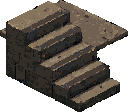
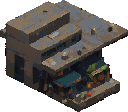
feat: 환경 시트를 클린 클러스터 v4로 재채택한다 (§1-d 정합 판정 게이트 통과)
재조정 레시피 4후보를 신설 게이트 — 후보 바닥 3×3 위 라이더 스프라이트 합성 —
로 판정해 C03을 채택했다: 플랫 면 + 이음새·해치 재질감(JOGAQ 문법)이 라이더의
셀 클러스터와 한 몸으로 읽힌다. v3(잔점 노이즈 사실계)는 §1-d 도입으로 당일 개정.
배경 알파 전처리(tol 5) 후 프로세서(despeckle 포함) 재마감, Art/Environment 16종
교체. 실플레이 캡처 docs/captures/neon-environment-clean-cluster-v1.png.
EditMode 1197 · PlayMode 2 그린.

diff --git a/Tools/ArtPipeline/process_postapoc_environment_v2.py b/Tools/ArtPipeline/process_postapoc_environment_v2.py
@@ -19,7 +19,7 @@ from torchstone_palette import despeckle, lock_to_palette
 ROOT = Path(__file__).resolve().parents[2]
 SOURCE = (
     ROOT
-    / "docs/art-direction/project-c-collapsed-transit-environment-source-v3.png"
+    / "docs/art-direction/project-c-collapsed-transit-environment-source-v4.png"
 )
 STAIRS_SOURCE = (
     ROOT

diff --git a/docs/art-direction/project-c-collapsed-transit-environment-source-v4.prompt.md b/docs/art-direction/project-c-collapsed-transit-environment-source-v4.prompt.md
@@ -1,0 +1,10 @@
+# 환경 6셀 소스 시트 v4 — 클린 클러스터 재조정 (§1-d)
+
+- **채택**: 2026-07-30, art_runner job `ART-20260730-041106-2f52aa` 후보 **C03**.
+  v3(같은 날 채택)를 §1-d 렌더링 문법 계약 도입으로 즉시 개정 — 잔점 노이즈 사실계를
+  버리고 플랫 면 + 이음새·해치 재질감으로 재생성했다. 레시피
+  `environment-neon-style-v1`의 클린 클러스터 재조정판(PixelArtRedmond 0.55,
+  denoise 0.55, speckle 계열 negative).
+- **판정**: 신설 게이트 — 후보 바닥 셀 3×3 위 라이더 스프라이트 합성으로
+  캐릭터-환경 문법 정합을 확인하고 채택(§1-d).
+- **전처리**: 생성 배경이 불투명 검정이라 테두리 연결 플러드(tol 5)로 알파화 후 저장.
